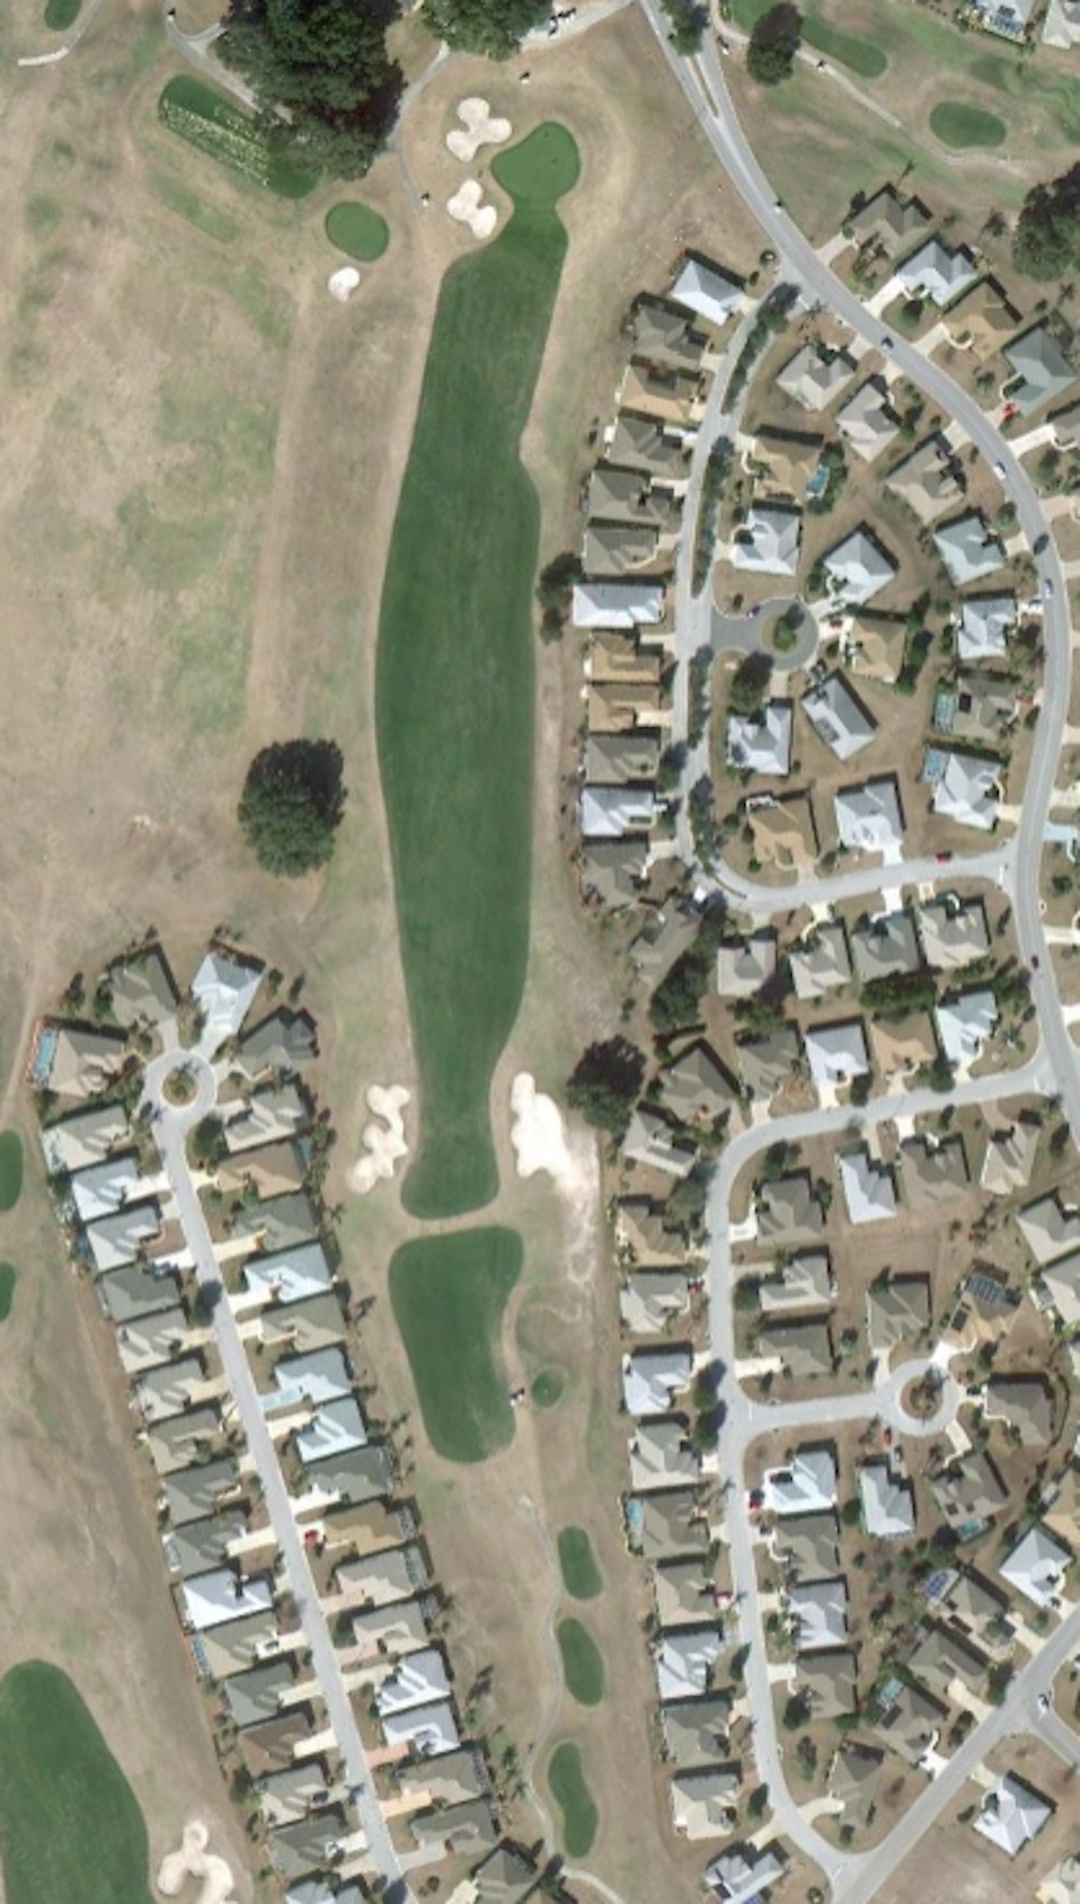
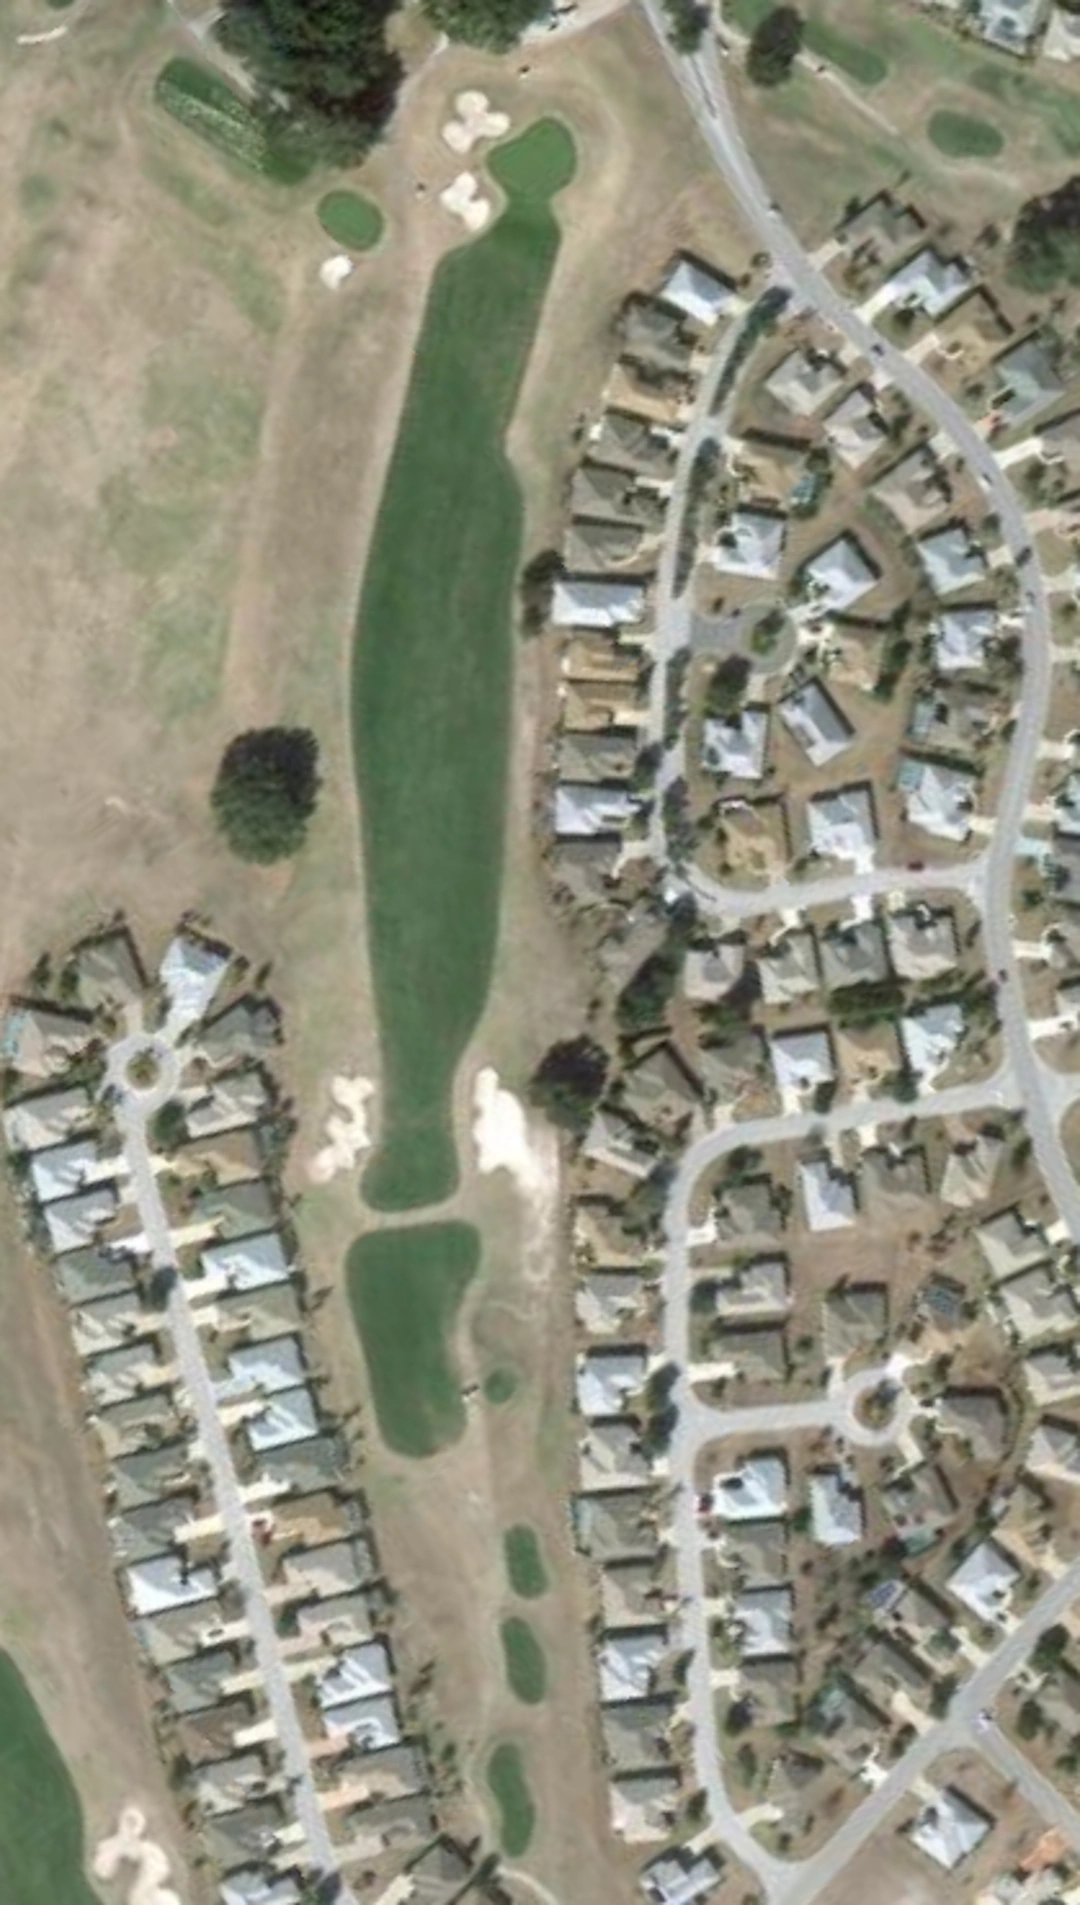
01

diff --git a/src/data/courses.js b/src/data/courses.js
@@ -75,7 +75,7 @@ export const BROAD_STRIPES = {
       { hole: 6, par: 3, hcp: 17, greenDepth: 33, tee: { lat: 28.962392, lon: -81.946686 }, green: { lat: 28.963114, lon: -81.947414 } },
       { hole: 7, par: 4, hcp: 11, greenDepth: 33, tee: { lat: 28.963619, lon: -81.946822 }, green: { lat: 28.963997, lon: -81.949842 } },
       { hole: 8, par: 4, hcp: 3, greenDepth: 25, tee: { lat: 28.963192, lon: -81.950492 }, green: { lat: 28.963831, lon: -81.953725 } },
-      { hole: 9, par: 5, hcp: 1, greenDepth: 39, tee: { lat: 28.963726, lon: -81.955847 }, green: { lat: 28.96607, lon: -81.959551 } },
+      { hole: 9, par: 5, hcp: 1, greenDepth: 39, tee: { lat: 28.963289, lon: -81.955144 }, green: { lat: 28.966053, lon: -81.959517 } },
     ],
 
     Back: [

diff --git a/src/App.jsx b/src/App.jsx
@@ -18,7 +18,7 @@ import {
 } from "./data/overlayExport";
 
 const TEE_BOXES = ["Black", "Gold", "Blue", "White", "Green", "Red", "Friendly"];
-const TEST_SYNC_ID = "TEST-77";
+const TEST_SYNC_ID = "TEST-01";
 
 // AUTO BUILD ID
 const BUILD_TEST_ID =
